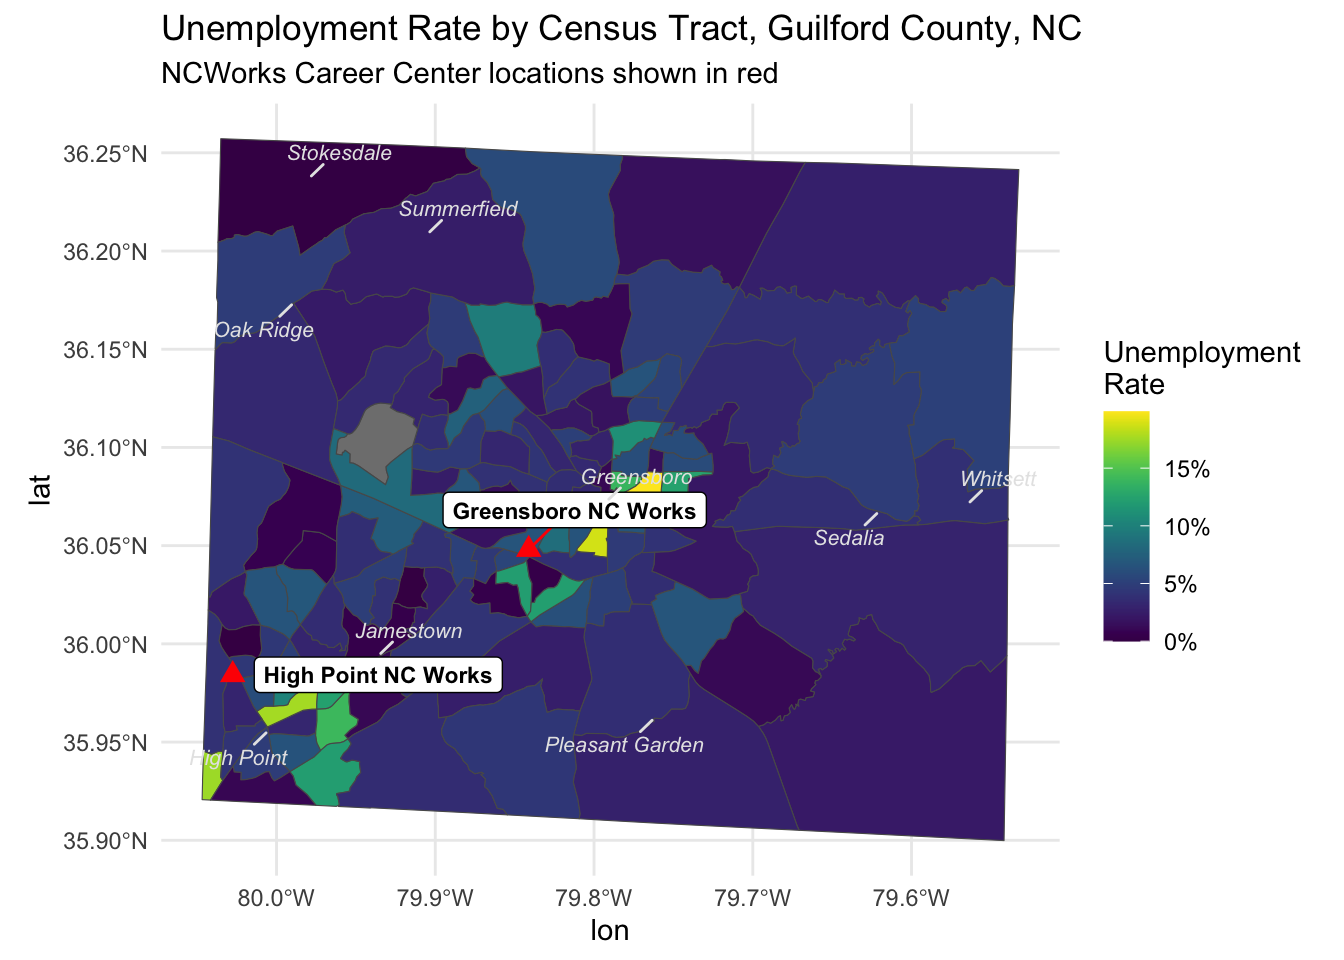
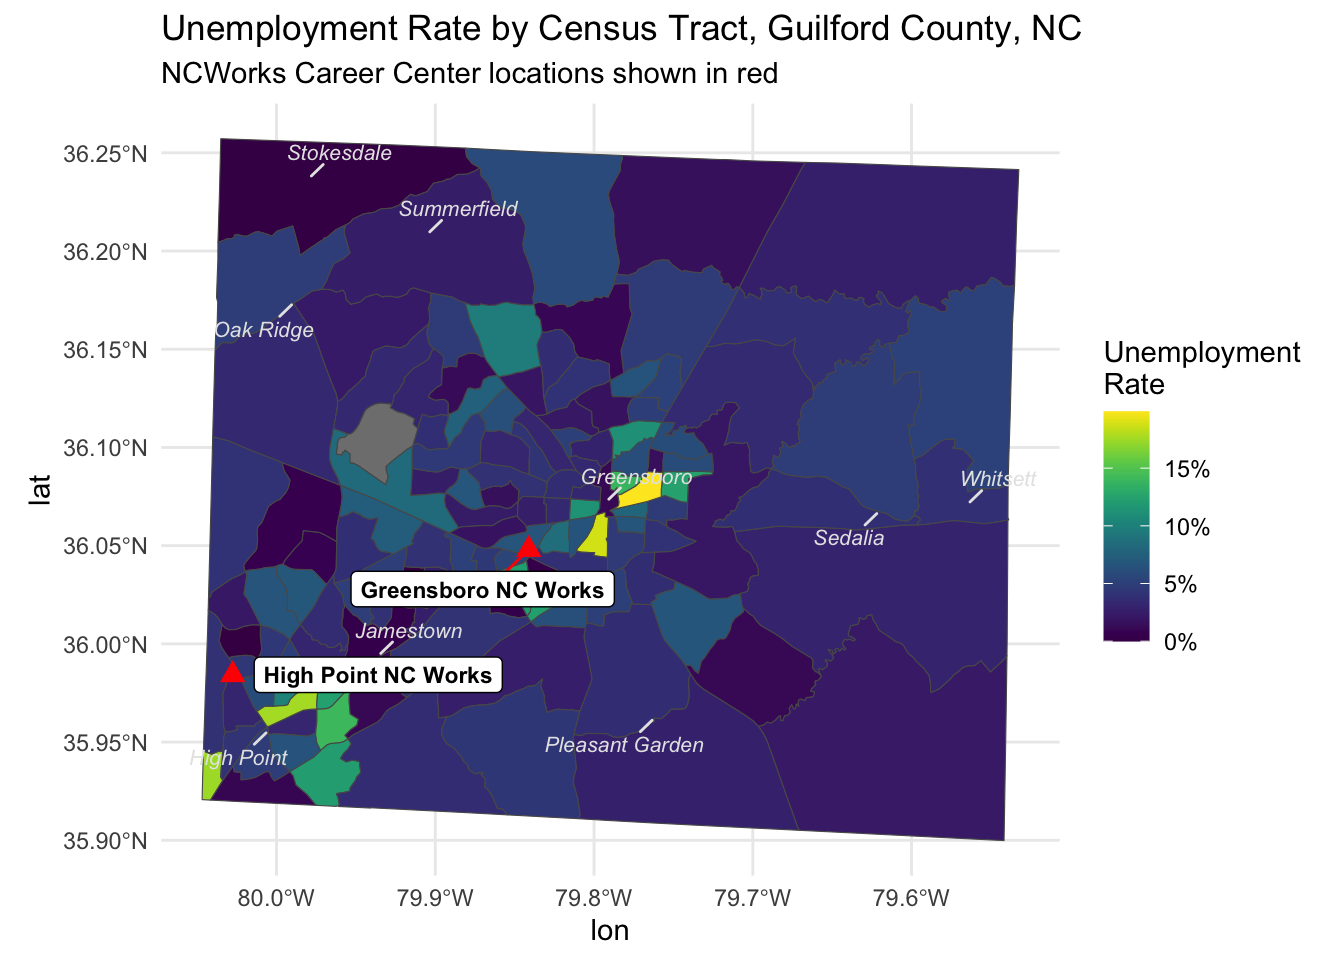
update version

Changed region(s): [[0.3125, 0.5, 0.5312, 0.5625], [0.25, 0.5938, 0.4688, 0.6562]]

diff --git a/_site/index.html b/_site/index.html
@@ -9,7 +9,7 @@
 <meta name="author" content="Dave Childers">
 <meta name="dcterms.date" content="2026-07-20">
 
-<title>Workforce Services Accessibility in Guilford County, NC – Guilford County Workforce Access</title>
+<title>Workforce Services Accessibility in Guilford County – Guilford County Workforce Access</title>
 <style>
 code{white-space: pre-wrap;}
 span.smallcaps{font-variant: small-caps;}
@@ -121,7 +121,7 @@ pre > code.sourceCode > span > a:first-child::before { text-decoration: underlin
 
 <header id="title-block-header" class="quarto-title-block default">
 <div class="quarto-title">
-<h1 class="title">Workforce Services Accessibility in Guilford County, NC</h1>
+<h1 class="title">Workforce Services Accessibility in Guilford County</h1>
 </div>
 
 
@@ -152,10 +152,10 @@ pre > code.sourceCode > span > a:first-child::before { text-decoration: underlin
 
 <section id="introduction" class="level2">
 <h2 class="anchored" data-anchor-id="introduction">Introduction</h2>
-<p>Guilford county’s NCWorks Career Centers provide job search assistance, career counseling, and skills training to residents across the county. Both centers are located in the county’s two largest cities, Greensboro and High Point. This raises a natural question:</p>
+<p>Guilford county’s NCWorks Career Centers provide job search assistance, career counseling, and skills training to residents across the county. The centers are located in the county’s two largest cities, Greensboro and High Point. This report visually investigates an important question:</p>
 <p>Are the workforce centers in a convenient location to communities with the highest job support needs?</p>
-<p>This project takes a first look at these questions. It maps labor market indicators including unemployment, poverty, and vehicle access across Guilford County’s census tracts, alongside the locations of the two career centers. We aim to visually surface where need may be concentrated relative to where services are physically located/</p>
-<p><strong>Note</strong>: Click on the <code>Code</code> to view the underlying R code used in producing this report.</p>
+<p>This project takes a first look at these questions. It maps labor market indicators including unemployment, poverty, and vehicle access across Guilford County’s census tracts, alongside the locations of the two career centers. This report visually surfaces where need is concentrated relative to where services are physically located.</p>
+<p><strong>Note</strong>: Click on the various <code>Code</code> sections to view the underlying code used in producing this report. The underlying code for fetching data from the American Community <a href="https://www.census.gov/programs-surveys/acs.html">Survey</a> and geocoding is available on my github <a href="https://github.com/davechilders/guilford-county-workforce-access/blob/main/01-load-acs.R">page</a>.</p>
 <div class="cell">
 <details class="code-fold">
 <summary>Code</summary>
@@ -241,7 +241,7 @@ pre > code.sourceCode > span > a:first-child::before { text-decoration: underlin
 </div>
 </div>
 </div>
-<p>This second spatial graph shows the average number of miles to the NCWorks location. The two Greensboro-area tracts with the highest unemployment have average distances of 2.4 and 4.5 miles to the NC Works location. This can pose a burden to residents without vehicle access. In the census tract where Greensboro NC Works resides, the average distance is less than half of a mile, but there is a lower need for employment services in this tract.</p>
+<p>This second choropleth graph shows the average number of miles to the NCWorks location. The two Greensboro-area tracts with the highest unemployment have average distances of 2.4 and 4.5 miles to the NC Works location. This can pose a burden to residents without vehicle access. In the census tract where Greensboro NC Works resides, the average distance is less than half of a mile, but there is a lower need for employment services in this tract.</p>
 <div class="cell">
 <details class="code-fold">
 <summary>Code</summary>
